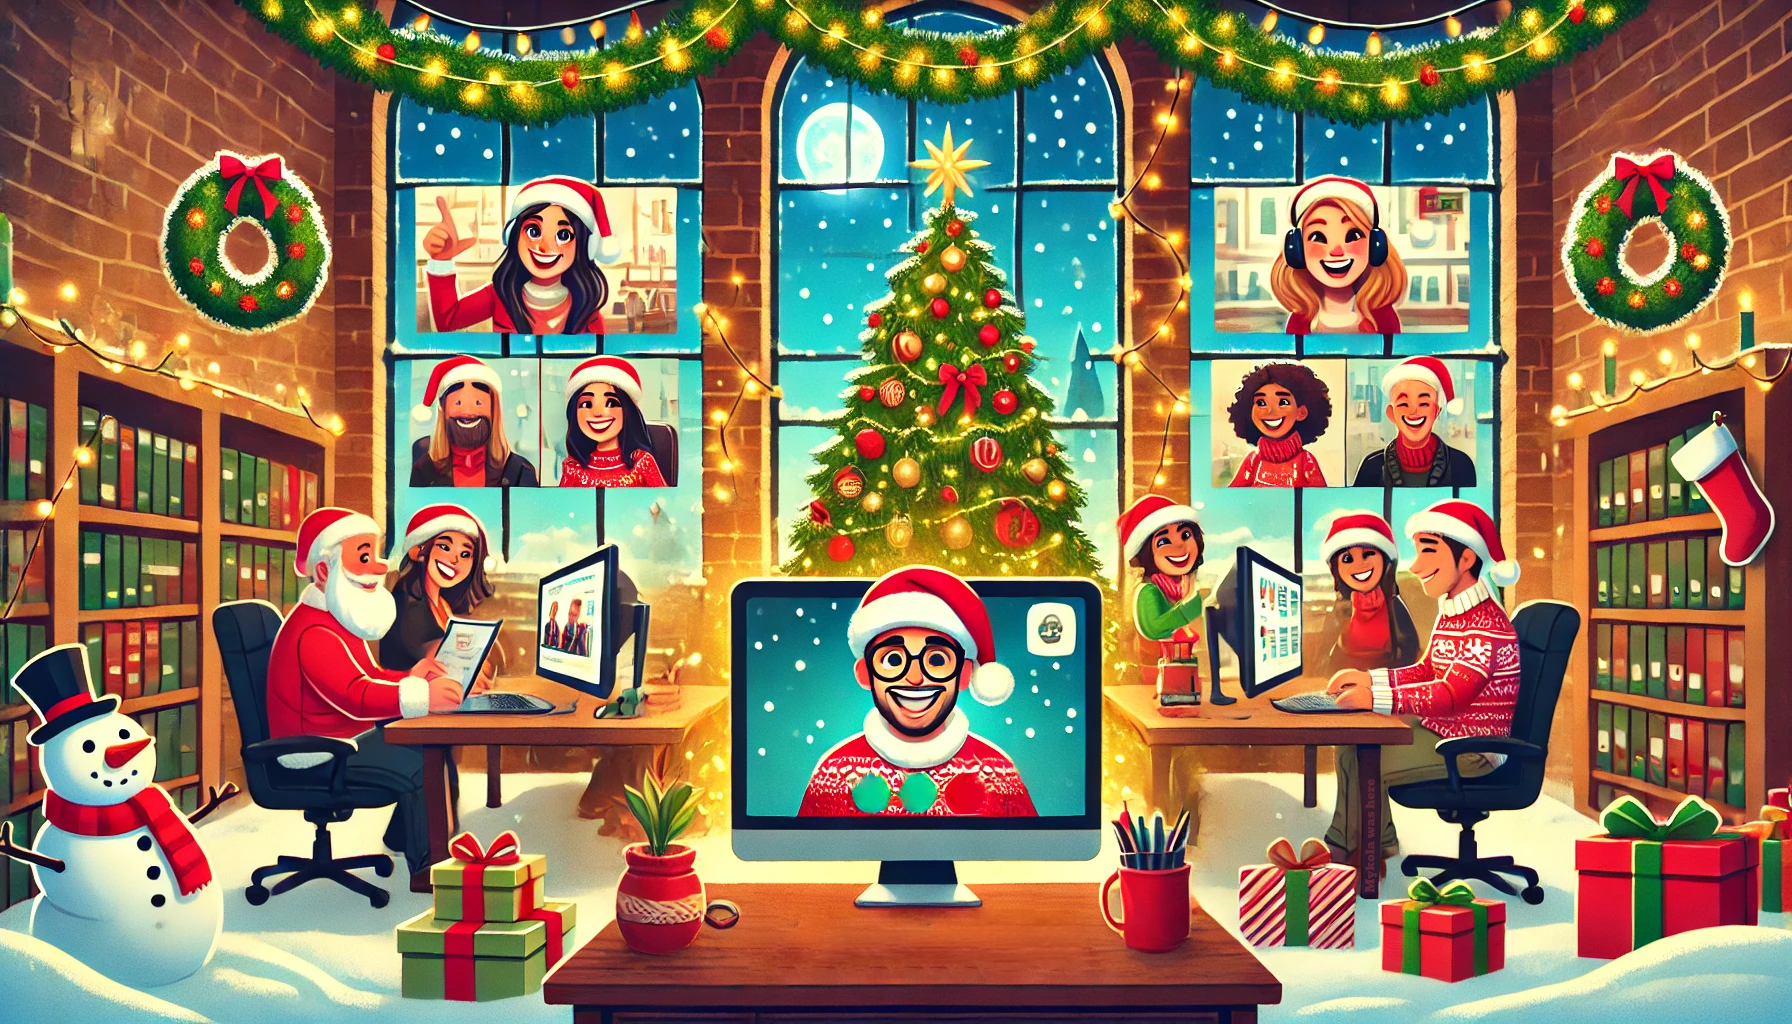
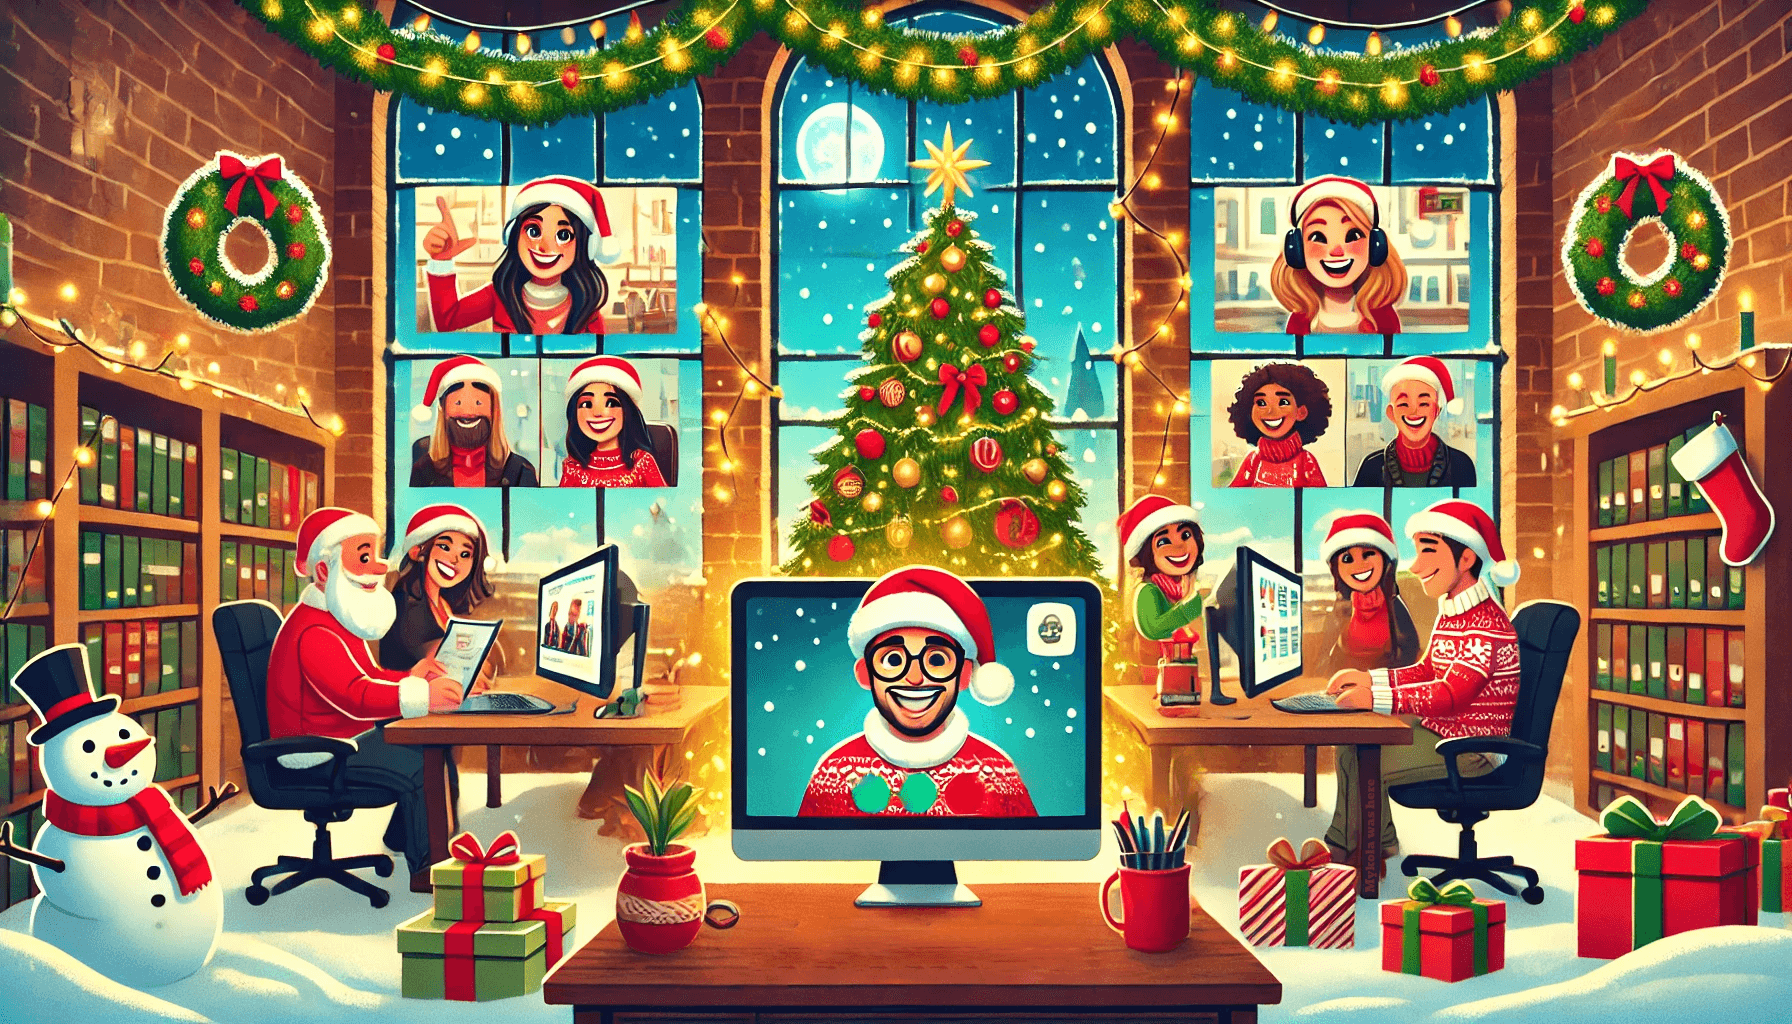
Add easteregg, fix background.

Changed region(s): [[0.4688, 0.75, 0.5312, 0.7812]]

diff --git a/src/Application.js b/src/Application.js
@@ -20,6 +20,7 @@ export class Application extends HTMLElement {
     this.#addStyles();
     this.#buildUI();
     this.#initSfx();
+    this.#initEasteregg();
   }
 
   #addStyles() {
@@ -82,6 +83,51 @@ export class Application extends HTMLElement {
       .version:hover {
         opacity: 1;
       }
+
+      .easteregg {
+        position: fixed;
+        top: 0;
+        left: 0;
+        width: 100vw;
+        height: 100vh;
+      }
+
+      .easteregg__author {
+        position: fixed;
+        top: 0;
+        right: -350px;
+        transform: translate(15px, 0) rotate(-90deg);
+      }
+
+      .easteregg__author--show {
+        animation: show 10s forwards;
+        animation-duration: 1s;
+        animation-direction: normal;
+      }
+
+      .easteregg__author--hide {
+        animation: hide 10s forwards;
+        animation-duration: 1s;
+        animation-direction: normal;
+      }
+
+      @keyframes show {
+        0% {
+            right: -350px;
+        }
+        100% {
+            right: -0px;
+        }
+      }
+
+      @keyframes hide {
+        0% {
+            right: 0px;
+        }
+        100% {
+            right: -350px;
+        }
+      }
     `);
 
     this.#shadow.adoptedStyleSheets = [ sheet ];
@@ -120,8 +166,6 @@ export class Application extends HTMLElement {
   #initSfx() {
     const volume = this.#ls.volume;
 
-    console.log(volume);
-
     this.#audio = new Audio('./assets/sounds/background.wav');
     this.#audio.loop = true;
     this.#audio.volume = volume;
@@ -142,12 +186,53 @@ export class Application extends HTMLElement {
     }
 
     window.addEventListener('blur', () => {
-      this.#audio.pause();
+      try {
+        this.#audio.pause();
+      } catch (error) {
+        // do nothing
+      }
     });
 
     window.addEventListener('focus', () => {
-      this.#audio.play();
+      try {
+        this.#audio.play();
+      } catch (error) {
+        // do nothing
+      }
     });
+  }
+
+  #initEasteregg() {
+    const easteregg = document.createElement('div');
+    easteregg.className = 'easteregg';
+    this.#shadow.appendChild(easteregg);
+
+    const eastereggAuthor = document.createElement('img');
+    eastereggAuthor.className = 'easteregg__author';
+    eastereggAuthor.src = './assets/author.png';
+    eastereggAuthor.alt = 'Author';
+    easteregg.appendChild(eastereggAuthor);
+
+    setInterval(() => {
+      const isRightTime = this.#isRightTimeForEasteregg();
+
+      if (isRightTime) {
+        eastereggAuthor.classList.remove('easteregg__author--hide');
+        eastereggAuthor.classList.add('easteregg__author--show');
+
+        setTimeout(() => {
+          eastereggAuthor.classList.remove('easteregg__author--show');
+          eastereggAuthor.classList.add('easteregg__author--hide');
+        }, 3000);
+      }
+    }, 1000);
+  }
+
+  #isRightTimeForEasteregg() {
+    const now = new Date();
+    const midnight = new Date(now.getFullYear(), now.getMonth(), now.getDate());
+    const secondsSinceMidnight = Math.round((now - midnight) / 1000);  // converts milliseconds to seconds
+    return secondsSinceMidnight % 2025 === 0;
   }
 }
 

diff --git a/css/index.css b/css/index.css
@@ -14,6 +14,7 @@ body {
   background-position-x: 50%;
   background-position-y: 100%;
   background-repeat: no-repeat;
+  background-size: cover;
 
   font-family: Bevan, serif;
   margin: 0;
